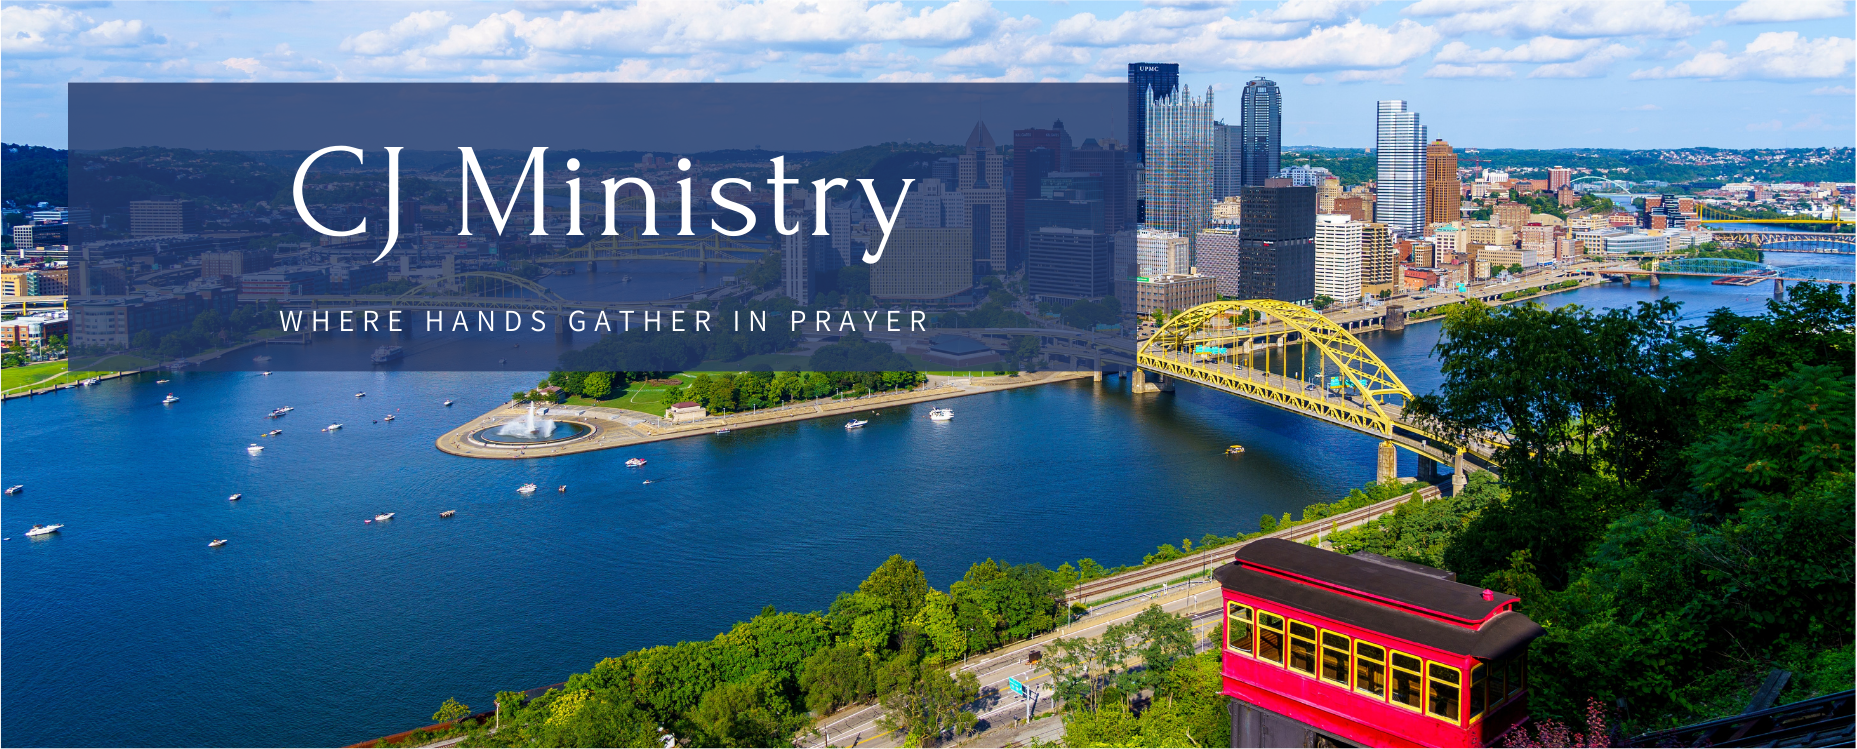
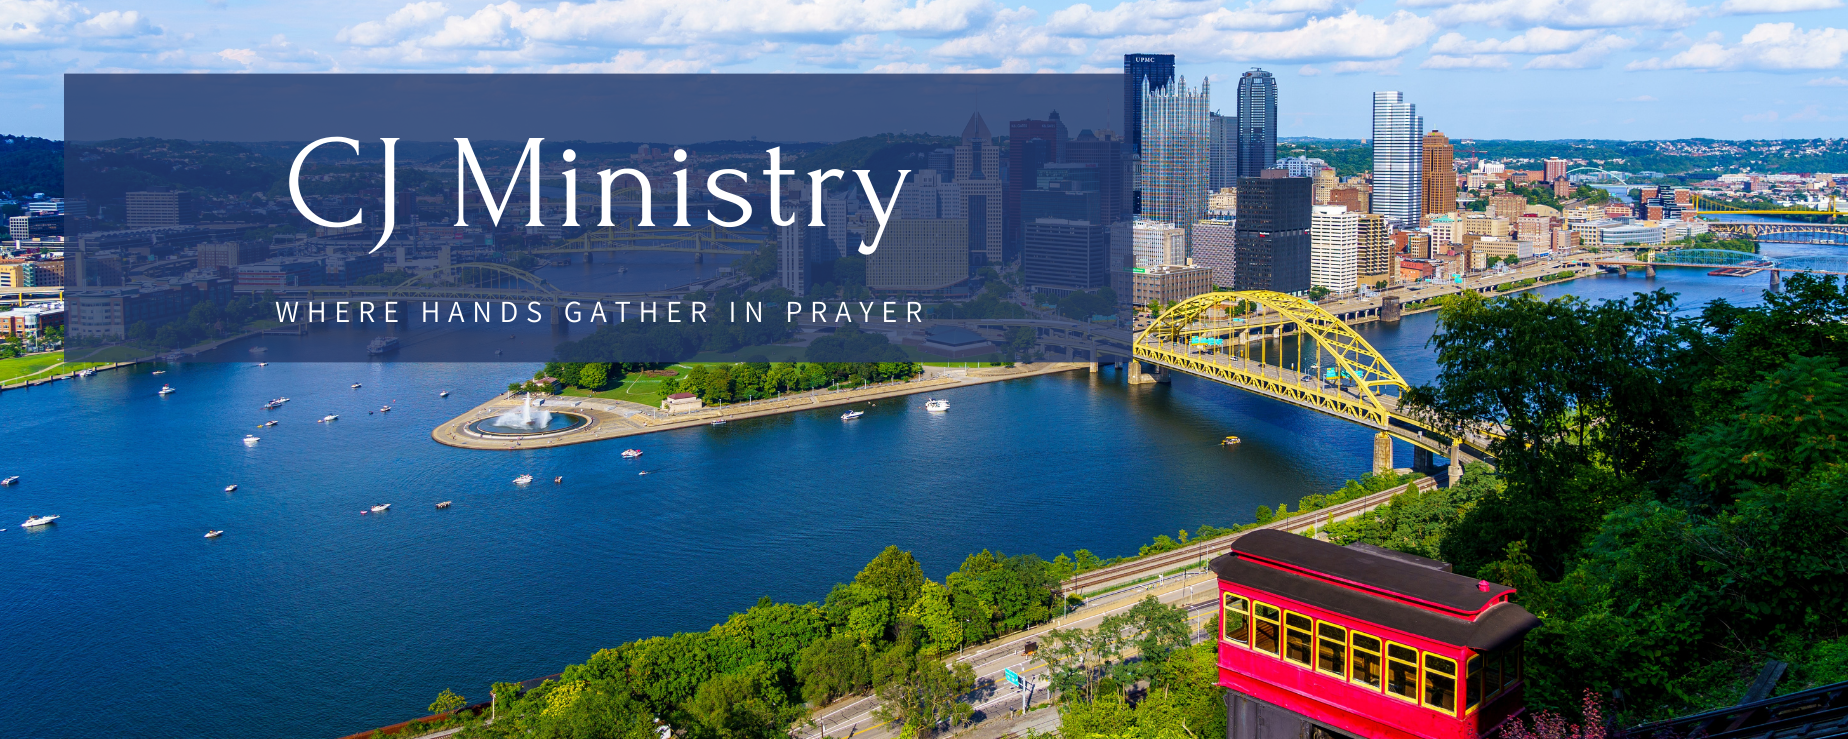
navbar, whitelines, hamburger

diff --git a/css/style.css b/css/style.css
@@ -21,7 +21,6 @@
 .headerimg{
   height: auto;
   max-width: 100%;
-  margin-top:4%;
   background-color: #9cb8cd;
 }
 
@@ -56,7 +55,6 @@
 /* #region Navigation */
 nav {
   background-color: #b7e0ff;
-  height: 8%;
 }
 
 #DonateButton {
@@ -252,6 +250,10 @@ footer {
   /* display the content of hamburger menu last */
   #Collapse {
     order: 1;
+  }
+
+  .navbar-toggler{
+    order: -1;
   }
 
   /* pretty bad fix for the Leadership section to be responsive and align correctly... */

diff --git a/index.html b/index.html
@@ -28,7 +28,7 @@
   <!-- narbar: inline display -->
   <!-- navbar-expand-lg: don't show hamburger in large screen -->
   <!-- bg-body-primary: display style -->
-  <nav class="navbar navbar-expand-lg bg-body-primary shadow p-3 fixed-top ">
+  <nav class="navbar navbar-expand-lg bg-body-primary shadow p-3 ">
     <!-- container-fluid: general structure -->
     <div class="container-fluid">
       <!-- Logo -->

diff --git a/elderly.html b/elderly.html
@@ -126,7 +126,7 @@
     <iframe
       src="https://docs.google.com/forms/d/e/1FAIpQLSckO75gW4mQ1MXg6BQOEcmD9NxSL8QIBj60YXncBvkbDHNlmg/viewform?embedded=true"
       width="100%"
-      height="382"
+      height="500px"
       frameborder="0"
       marginheight="0"
       marginwidth="0"
